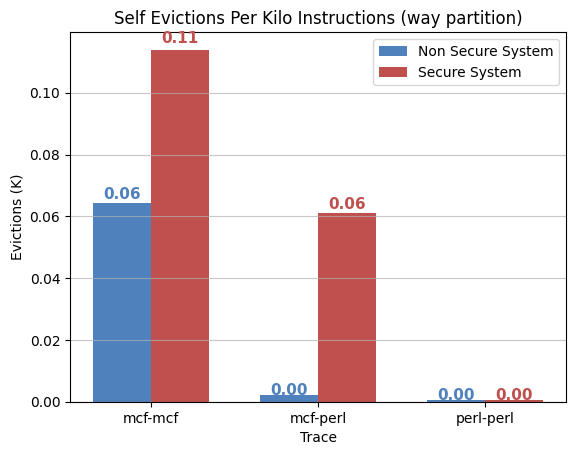
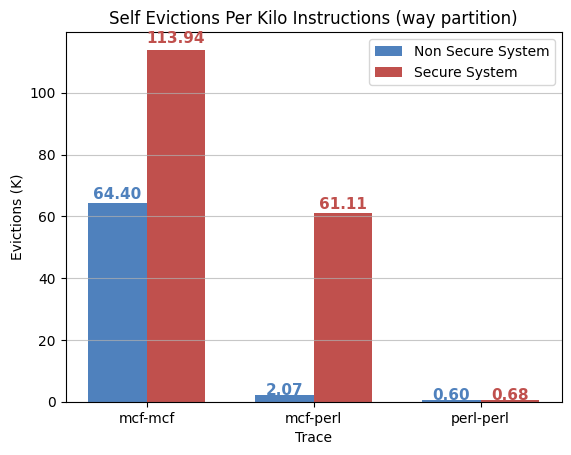
combined result in conclusion;

diff --git a/PA2/Workspace/graph_gen.py b/PA2/Workspace/graph_gen.py
@@ -119,8 +119,6 @@ def compare_data(parsed_data, modes):
             }
         )
     comparison_data = []
-    other_modes = modes
-    other_modes.remove("base")
     for mode in modes:
         for trace in [
             "mcf-mcf",
@@ -183,7 +181,7 @@ def draw_graph(title, ylabel, labels, base_values, new_values, file_name):
             height = bar.get_height()
             ax.text(
                 bar.get_x() + bar.get_width() / 2,
-                height * 1.02,  # Small offset to avoid overlap
+                height * 1.02,
                 f"{height:.2f}",
                 ha="center",
                 color=color_blue,
@@ -221,7 +219,7 @@ def draw_graph(title, ylabel, labels, base_values, new_values, file_name):
             height = bar.get_height()
             ax.text(
                 bar.get_x() + bar.get_width() / 2,
-                height + 0.01,  # Fixed small offset for IPC
+                height + 0.01,
                 f"{height:.2f}",
                 ha="center",
                 color=color_blue,
@@ -242,21 +240,78 @@ def draw_graph(title, ylabel, labels, base_values, new_values, file_name):
     print(f"Saved {file_name}")
 
 
+def draw_combined_graph(data):
+    data.reverse()
+    modes = ["base", "way", "static", "dynamic"]
+    traces = sorted(set(row["trace"] for row in data))
+
+    colors = {
+        "base": "#e5904b",
+        "way": "#C0504D",
+        "static": "#4F81BD",
+        "dynamic": "#9BBB59",
+    }
+
+    metrics = {
+        "ipc": ("Normalized IPC", "Normalized IPC", "normalized_ipc"),
+        "mpki": ("LLC MPKI", "LLC MPKI", "new_mpki"),
+        "evictions": (
+            "Self Evictions Per Kilo Instructions",
+            "Evictions (K)",
+            "new_evictions",
+        ),
+    }
+
+    for metric_key, (title, ylabel, metric) in metrics.items():
+        x = np.arange(len(traces))
+        width = 0.2  # Adjust for multiple bars
+
+        fig, ax = plt.subplots(figsize=(10, 5))
+
+        for j, mode in enumerate(modes):
+            mode_data = {
+                row["trace"]: row[metric] for row in data if row["mode"] == mode
+            }
+            values = [mode_data.get(trace, 0) for trace in traces]
+            ax.bar(x + j * width, values, width, label=mode, color=colors[mode])
+
+            for idx, val in enumerate(values):
+                ax.text(
+                    x[idx] + j * width,
+                    val * 1.02,
+                    f"{val:.2f}",
+                    ha="center",
+                    fontsize=9,
+                )
+
+        ax.set_ylabel(ylabel)
+        ax.set_title(f"{title} for All Modes")
+        ax.grid(True, linestyle="-", alpha=0.7, axis="y")
+        ax.legend()
+
+        ax.set_xticks(x + width)
+        ax.set_xticklabels(traces, rotation=0)
+        ax.set_xlabel("Trace")
+
+        file_name = GRAPH_IMG_PATH.format(mode="combined", type=metric_key)
+        plt.savefig(file_name, bbox_inches="tight")
+        plt.close(fig)
+        print(f"Saved {file_name}")
+
+
 def process_and_plot(data):
-    modes = set(row["mode"] for row in data)  # Get unique modes
+    modes = set(row["mode"] for row in data if row["mode"] != "base")
 
     for mode in modes:
-        mode_data = [row for row in data if row["mode"] == mode]  # Filter data by mode
+        mode_data = [row for row in data if row["mode"] == mode]
         traces = [row["trace"] for row in mode_data]
 
         # Extracting values
         ipc_values = [row["normalized_ipc"] for row in mode_data]
         base_mpki = [row["base_mpki"] for row in mode_data]
         new_mpki = [row["new_mpki"] for row in mode_data]
-        base_evictions = [
-            row["base_evictions"] / 1000 for row in mode_data
-        ]  # Convert to per K instructions
-        new_evictions = [row["new_evictions"] / 1000 for row in mode_data]
+        base_evictions = [row["base_evictions"] for row in mode_data]
+        new_evictions = [row["new_evictions"] for row in mode_data]
 
         # Generating 3 plots per mode
         draw_graph(
@@ -284,17 +339,28 @@ def process_and_plot(data):
             GRAPH_IMG_PATH.format(mode=mode_2_dir[mode], type="evictions"),
         )
 
+    # Draw combined graph
+    draw_combined_graph(data)
 
-def generate_report(data):
-    # print(data)
+
+def generate_report(data, comparison_data):
     template = ""
     with open("Report.template.md", "r") as fileobj:
         template = fileobj.read()
+    # individual mode report
     for entry in data:
         trace = entry["trace"]
         mode = entry["mode"]
         for key, value in entry.items():
             if key not in ["mode", "trace"]:
+                placeholder = f"{{{{{mode}.{trace}.{key}}}}}"  # Match template style
+                template = template.replace(placeholder, str(value))
+    #  combined report
+    for entry in comparison_data:
+        trace = entry["trace"]
+        mode = entry["mode"]
+        for key, value in entry.items():
+            if key not in ["mode", "trace"] and "base" not in key:
                 placeholder = f"{{{{{mode}.{trace}.{key}}}}}"  # Match template style
                 template = template.replace(placeholder, str(value))
     lines = template.split("\n")
@@ -327,7 +393,7 @@ def main(_modes: str):
     print(tabulate(comparison_data, headers="keys", tablefmt="grid"))
 
     process_and_plot(comparison_data)
-    generate_report(parsed_data)
+    generate_report(parsed_data, comparison_data)
 
 
 if __name__ == "__main__":

diff --git a/PA2/Workspace/Report.template.md b/PA2/Workspace/Report.template.md
@@ -30,7 +30,7 @@
 - **evictions_core0**: Cache blocks evicted from core 0’s cache. Directly obtained.  
 - **evictions_core1**: Cache blocks evicted from core 1’s cache. Directly obtained.  
 - **evictions_total**: Total cache evictions across both cores. Formula: `evictions_total = evictions_core0 + evictions_core1`.  
-- **evictions_per_k**: Cache blocks evicted per 1000 instructions. Formula: `evictions_per_k = (evictions_total / total_instruction_executed) * 1000`, where `total_instruction_executed = 50M`.  
+- **evictions_per_k**: Cache blocks evicted per 1000 instructions. Formula: `evictions_per_k = (evictions_total / total_instruction_executed) * 1000`, where `total_instruction_executed = 50M/core*2cores = 100M`.  
 
 
 #### Base Data
@@ -384,5 +384,84 @@
 ---
 
 ## Conclusion
+#### Data
+<table border="1">
+    <thead>
+        <tr>
+            <th rowspan="2">Trace</th>
+            <th colspan="4">Normalized IPC</th>
+            <th colspan="4">LLC MPKI</th>
+            <th colspan="4">Self Evictions Per Kilo Instructions</th>
+        </tr>
+        <tr>
+            <th>Base</th>
+            <th>Way</th>
+            <th>Static</th>
+            <th>Dynamic</th>
+            <th>Base</th>
+            <th>Way</th>
+            <th>Static</th>
+            <th>Dynamic</th>
+            <th>Base</th>
+            <th>Way</th>
+            <th>Static</th>
+            <th>Dynamic</th>
+        </tr>
+    </thead>
+    <tbody>
+        <tr>
+            <td>mcf-mcf</td>
+            <td>{{base.mcf-mcf.normalized_ipc}}</td>
+            <td>{{way.mcf-mcf.normalized_ipc}}</td>
+            <td>{{static.mcf-mcf.normalized_ipc}}</td>
+            <td>{{dynamic.mcf-mcf.normalized_ipc}}</td>
+            <td>{{base.mcf-mcf.new_mpki}}</td>
+            <td>{{way.mcf-mcf.new_mpki}}</td>
+            <td>{{static.mcf-mcf.new_mpki}}</td>
+            <td>{{dynamic.mcf-mcf.new_mpki}}</td>
+            <td>{{base.mcf-mcf.new_evictions}}</td>
+            <td>{{way.mcf-mcf.new_evictions}}</td>
+            <td>{{static.mcf-mcf.new_evictions}}</td>
+            <td>{{dynamic.mcf-mcf.new_evictions}}</td>
+        </tr>
+        <tr>
+            <td>mcf-perl</td>
+            <td>{{base.mcf-perl.normalized_ipc}}</td>
+            <td>{{way.mcf-perl.normalized_ipc}}</td>
+            <td>{{static.mcf-perl.normalized_ipc}}</td>
+            <td>{{dynamic.mcf-perl.normalized_ipc}}</td>
+            <td>{{base.mcf-perl.new_mpki}}</td>
+            <td>{{way.mcf-perl.new_mpki}}</td>
+            <td>{{static.mcf-perl.new_mpki}}</td>
+            <td>{{dynamic.mcf-perl.new_mpki}}</td>
+            <td>{{base.mcf-perl.new_evictions}}</td>
+            <td>{{way.mcf-perl.new_evictions}}</td>
+            <td>{{static.mcf-perl.new_evictions}}</td>
+            <td>{{dynamic.mcf-perl.new_evictions}}</td>
+        </tr>
+        <tr>
+            <td>perl-perl</td>
+            <td>{{base.perl-perl.normalized_ipc}}</td>
+            <td>{{way.perl-perl.normalized_ipc}}</td>
+            <td>{{static.perl-perl.normalized_ipc}}</td>
+            <td>{{dynamic.perl-perl.normalized_ipc}}</td>
+            <td>{{base.perl-perl.new_mpki}}</td>
+            <td>{{way.perl-perl.new_mpki}}</td>
+            <td>{{static.perl-perl.new_mpki}}</td>
+            <td>{{dynamic.perl-perl.new_mpki}}</td>
+            <td>{{base.perl-perl.new_evictions}}</td>
+            <td>{{way.perl-perl.new_evictions}}</td>
+            <td>{{static.perl-perl.new_evictions}}</td>
+            <td>{{dynamic.perl-perl.new_evictions}}</td>
+        </tr>
+    </tbody>
+</table>
 
+#### Normalized Speedup
+![Dynamic Set Partitioning - Normalized Speedup](./results/graphs/combined/ipc.png)
 
+#### LLC MPKI Comparison
+![Dynamic Set Partitioning - LLC MPKI](./results/graphs/combined/mpki.png)
+
+#### Self-Evictions per Kilo Instructions
+![Dynamic Set Partitioning - Self Evictions](./results/graphs/combined/evictions.png)

diff --git a/PA2/Workspace/Report.md b/PA2/Workspace/Report.md
@@ -31,7 +31,7 @@
 - **evictions_core0**: Cache blocks evicted from core 0’s cache. Directly obtained.  
 - **evictions_core1**: Cache blocks evicted from core 1’s cache. Directly obtained.  
 - **evictions_total**: Total cache evictions across both cores. Formula: `evictions_total = evictions_core0 + evictions_core1`.  
-- **evictions_per_k**: Cache blocks evicted per 1000 instructions. Formula: `evictions_per_k = (evictions_total / total_instruction_executed) * 1000`, where `total_instruction_executed = 50M`.  
+- **evictions_per_k**: Cache blocks evicted per 1000 instructions. Formula: `evictions_per_k = (evictions_total / total_instruction_executed) * 1000`, where `total_instruction_executed = 50M/core*2cores = 100M`.  
 
 
 #### Base Data
@@ -392,5 +392,86 @@
 ---
 
 ## Conclusion
+#### Data
+<table border="1">
+    <thead>
+        <tr>
+            <th rowspan="2">Trace</th>
+            <th colspan="4">Normalized IPC</th>
+<!-- ! THIS IS AUTOGENERATED DO NOT EDIT THIS. EDIT Report.template.md -->
+            <th colspan="4">LLC MPKI</th>
+            <th colspan="4">Self Evictions Per Kilo Instructions</th>
+        </tr>
+        <tr>
+            <th>Base</th>
+            <th>Way</th>
+            <th>Static</th>
+            <th>Dynamic</th>
+            <th>Base</th>
+            <th>Way</th>
+            <th>Static</th>
+            <th>Dynamic</th>
+            <th>Base</th>
+            <th>Way</th>
+            <th>Static</th>
+            <th>Dynamic</th>
+        </tr>
+    </thead>
+    <tbody>
+        <tr>
+            <td>mcf-mcf</td>
+            <td>1.0</td>
+            <td>1.05</td>
+            <td>1.0</td>
+            <td>1.0</td>
+            <td>126.34</td>
+            <td>113.68</td>
+            <td>124.29</td>
+            <td>124.29</td>
+            <td>64.4</td>
+            <td>113.94</td>
+            <td>124.88</td>
+            <td>124.88</td>
+        </tr>
+        <tr>
+            <td>mcf-perl</td>
+            <td>1.0</td>
+            <td>0.76</td>
+            <td>0.75</td>
+            <td>0.93</td>
+            <td>3.32</td>
+            <td>59.93</td>
+            <td>67.06</td>
+            <td>10.46</td>
+            <td>2.07</td>
+            <td>61.11</td>
+            <td>68.28</td>
+            <td>10.91</td>
+        </tr>
+<!-- ! THIS IS AUTOGENERATED DO NOT EDIT THIS. EDIT Report.template.md -->
+        <tr>
+            <td>perl-perl</td>
+            <td>1.0</td>
+            <td>1.0</td>
+            <td>1.0</td>
+            <td>1.0</td>
+            <td>1.2</td>
+            <td>1.21</td>
+            <td>1.2</td>
+            <td>1.2</td>
+            <td>0.6</td>
+            <td>0.68</td>
+            <td>0.94</td>
+            <td>0.94</td>
+        </tr>
+    </tbody>
+</table>
 
+#### Normalized Speedup
+![Dynamic Set Partitioning - Normalized Speedup](./results/graphs/combined/ipc.png)
 
+#### LLC MPKI Comparison
+![Dynamic Set Partitioning - LLC MPKI](./results/graphs/combined/mpki.png)
+
+#### Self-Evictions per Kilo Instructions
+![Dynamic Set Partitioning - Self Evictions](./results/graphs/combined/evictions.png)
